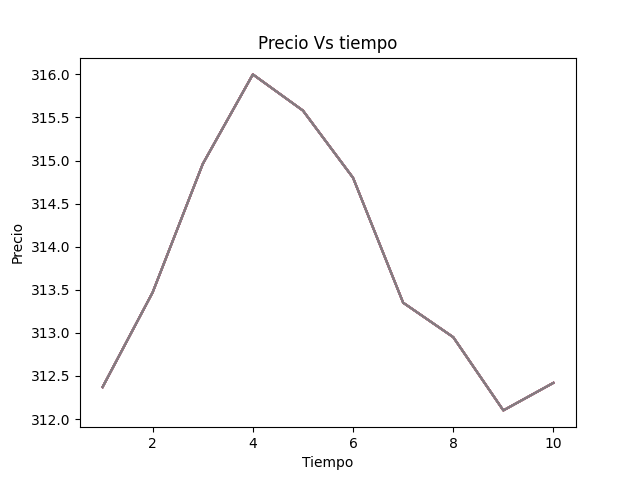
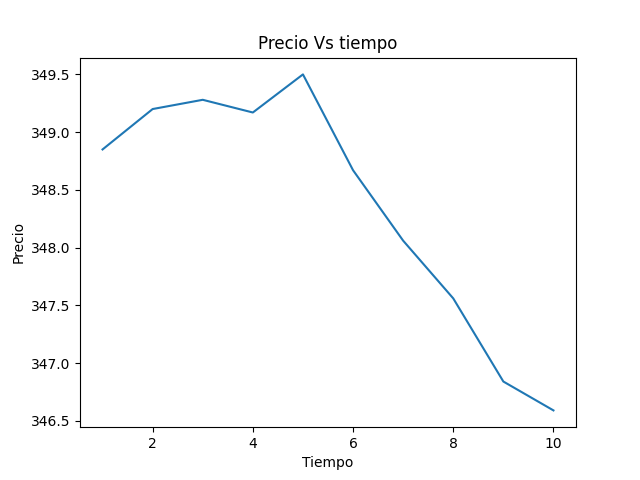
se puso la actualización de imagen

diff --git a/Gui.py b/Gui.py
@@ -1,5 +1,6 @@
 import tkinter as tk
 import time
+from tkinter.constants import X
 from PIL import Image, ImageTk
 import threading
 import config
@@ -27,7 +28,6 @@ porcentaje_comision = .00075
 class A:
     
     def __init__(self, master):
-
         klines = client.get_klines(symbol=symbolTicker, interval=Client.KLINE_INTERVAL_1MINUTE)
         precio = [float(klines[len(klines)-1][2]),float(klines[len(klines)-2][2]),float(klines[len(klines)-3][2]),float(klines[len(klines)-4][2]),float(klines[len(klines)-5][2]), float(klines[len(klines)-6][2]), float(klines[len(klines)-7][2]), float(klines[len(klines)-8][2]), float(klines[len(klines)-9][2]), float(klines[len(klines)-10][2])]
         tiempo = [10,9,8,7,6,5,4,3,2,1]
@@ -37,11 +37,16 @@ class A:
         plt.xlabel('Tiempo')
         plt.ylabel('Precio')
         plt.savefig('grafica.png')
+
+        self.precioCompra = 0
         
         self.img = Image.open("grafica.png")
         self.img = self.img.resize((470, 275))
         self.tkimage = ImageTk.PhotoImage(self.img)
-        self.lblImg = tk.Label(root, image=self.tkimage).grid()    
+        self.lblImg = tk.Label(root)
+        self.lblImg.configure(image=self.tkimage)
+        self.lblImg.grid()
+        #self.lblImg = tk.Label(root, image = self.tkimage).grid()         
 
         self.lbltiempo = tk.Label(master)
         self.lbltiempo.configure(text ='Tiempo x Minuto')
@@ -101,7 +106,7 @@ class A:
         self.lblOperacionCuatro.configure(bg='white')
        #710 80 
 
-
+        
         self.count = 0
         self.update_label()
 
@@ -126,12 +131,13 @@ class A:
             media_max = func.media_max_klines(klines_h)                        
 
             # Encontrar el valor de la moneda
-            list_of_tickers = client.get_all_tickers()
-            for tick_2 in list_of_tickers:
-                if tick_2["symbol"] == symbolTicker:
-                    precioCompra = float(tick_2["price"])
+            if(self.precioCompra == 0):
+                list_of_tickers = client.get_all_tickers()
+                for tick_2 in list_of_tickers:
+                    if tick_2["symbol"] == symbolTicker:
+                        self.precioCompra = float(tick_2["price"])
 
-            if ((precioCompra >= max*.991) and ((precioCompra >= ((media_max+max)/2)*.991))): 
+            if ((self.precioCompra >= max*.991) and ((self.precioCompra >= ((media_max+max)/2)*.991))): 
                 ws.MessageBeep(type=1)
 
                 list_of_tickers = client.get_all_tickers()
@@ -140,39 +146,39 @@ class A:
                         precioActual = float(tick_2["price"])
 
                 comisionCompra = (inversion*porcentaje_comision)
-                comisionVenta = (inversion+((precioActual-precioCompra) /precioActual))*porcentaje_comision
+                comisionVenta = (inversion+((precioActual-self.precioCompra) /precioActual))*porcentaje_comision
 
-                gananciaTR = ((precioActual - precioCompra)*(inversion / precioCompra)-comisionCompra-comisionVenta)
+                gananciaTR = ((precioActual - self.precioCompra)*(inversion / self.precioCompra)-comisionCompra-comisionVenta)
 
-                if (((comisionCompra+comisionVenta) < ((precioActual - precioCompra)*(inversion/precioCompra))) or (gananciaTR <= (-inversion*.02))):
+                if (((comisionCompra+comisionVenta) < ((precioActual - self.precioCompra)*(inversion/self.precioCompra))) or (gananciaTR <= (-inversion*.02))):
                     ws.MessageBeep(type=1)
                     
-                    ganancia += (precioActual - precioCompra)*(inversion / precioCompra)-comisionCompra-comisionVenta
+                    ganancia += (precioActual - self.precioCompra)*(inversion / self.precioCompra)-comisionCompra-comisionVenta
                     
-                    texto = ('Se vendió a: ', precioActual, ' ganó: ', gananciaTR) 
-                
-                
-                    
-
-
+                    texto = ('Se vendió a: ', precioActual, ' ganó: ', gananciaTR)      
+                    precioCompra = 0                        
 
             self.lblGanaciasDinero.configure(text = gananciaTR) 
             self.lblGanaciasDinero.after(2500, self.update_label)             
         
-            self.lblPerdidaDinero.configure(text = precioCompra)
+            self.lblPerdidaDinero.configure(text = self.precioCompra)
             #self.lblPerdidaDinero.after(5000, self.update_label) 
 
             klines = client.get_klines(symbol=symbolTicker, interval=Client.KLINE_INTERVAL_1MINUTE)
             precio = [float(klines[len(klines)-1][2]),float(klines[len(klines)-2][2]),float(klines[len(klines)-3][2]),float(klines[len(klines)-4][2]),float(klines[len(klines)-5][2]), float(klines[len(klines)-6][2]), float(klines[len(klines)-7][2]), float(klines[len(klines)-8][2]), float(klines[len(klines)-9][2]), float(klines[len(klines)-10][2])]
             tiempo = [10,9,8,7,6,5,4,3,2,1]
             
+            plt.clf()
             plt.plot(tiempo, precio)
             plt.title('Precio Vs tiempo')
             plt.xlabel('Tiempo')
             plt.ylabel('Precio')
             plt.savefig('grafica.png')
-                
-            self.lblImg
+
+            self.img2 = Image.open("grafica.png")
+            self.img2 = self.img2.resize((470, 275))
+            self.tkimage = ImageTk.PhotoImage(self.img2)
+            self.lblImg.configure(image=self.tkimage)
 
             #############################
             #############################
@@ -180,13 +186,12 @@ class A:
             #Aqui pasele el string del detalle de las operaciones
 
             self.lblOperacionUno.configure(text = 'Se vendió a 270.898, ganó: 0.277806790')
-            #self.lblOperacionUno.after(5000, self.update_label) 
-            if(texto == ''):
-                print("")
-            else:
-                self.lblOperacionDos.configure(text = texto)
+            #self.lblOperacionUno.after(5000, self.update_label)            
+            self.lblOperacionDos.configure(text = texto)
             #self.lblOperacionDos.after(1000, self.update_label) 
             
+            
+
             self.lblOperacionTres.configure(text = '------------------')
             #self.lblOperacionTres.after(1000, self.update_label) 
 
@@ -199,6 +204,8 @@ class A:
 root = tk.Tk(className='Binance Trading bot')
 root.geometry("1000x310")
 root.configure(bg='white')
+precioCompra = 0
+
 A(root)     
 
 root.mainloop()
